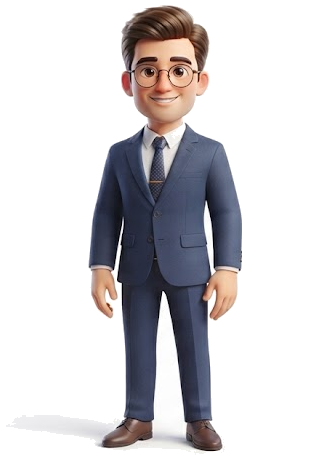
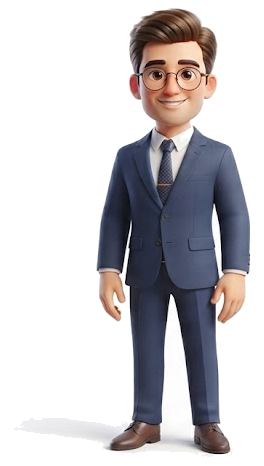
feat: full-body worker walking on road with dynamic sunny, rain, and snow weather cycles

diff --git a/apps/web/components/DedicatedWorkerIcon.tsx b/apps/web/components/DedicatedWorkerIcon.tsx
@@ -1,97 +1,207 @@
 'use client';
 
-import React from 'react';
+import React, { useState, useEffect } from 'react';
 import Image from 'next/image';
 
 interface DedicatedWorkerIconProps {
   size?: 'sm' | 'md' | 'lg' | 'xl';
-  variant?: 'avatar' | 'full';
   className?: string;
   showTooltip?: boolean;
 }
 
+type WeatherType = 'SUNNY' | 'RAINY' | 'SNOWY';
+
 export function DedicatedWorkerIcon({
   size = 'md',
-  variant = 'avatar',
   className = '',
   showTooltip = true,
 }: DedicatedWorkerIconProps) {
-  // Size mappings
-  const sizeClasses = {
-    sm: 'w-9 h-9 rounded-xl',
-    md: 'w-12 h-12 rounded-2xl',
-    lg: 'w-16 h-16 rounded-2xl',
-    xl: 'w-24 h-24 rounded-3xl',
+  const [weather, setWeather] = useState<WeatherType>('SUNNY');
+
+  // Automatically cycle weather every 5.5 seconds: SUNNY -> RAINY -> SNOWY -> SUNNY
+  useEffect(() => {
+    const cycle: WeatherType[] = ['SUNNY', 'RAINY', 'SNOWY'];
+    let idx = 0;
+    const interval = setInterval(() => {
+      idx = (idx + 1) % cycle.length;
+      setWeather(cycle[idx]);
+    }, 5500);
+    return () => clearInterval(interval);
+  }, []);
+
+  // Manual weather toggle on click
+  const handleToggleWeather = (e: React.MouseEvent) => {
+    e.stopPropagation();
+    setWeather((prev) => (prev === 'SUNNY' ? 'RAINY' : prev === 'RAINY' ? 'SNOWY' : 'SUNNY'));
   };
 
-  const imgSizes = {
-    sm: 34,
-    md: 46,
-    lg: 60,
-    xl: 92,
+  // Dimensions & scaling per size
+  // Providing vertical portrait room so full body from head to toe is fully visible!
+  const containerSizes = {
+    sm: 'w-12 h-16 rounded-xl',
+    md: 'w-16 h-22 rounded-2xl',
+    lg: 'w-24 h-32 rounded-3xl',
+    xl: 'w-32 h-44 rounded-3xl',
   };
 
-  const imgSrc = variant === 'full' ? '/worker-transparent.png' : '/worker-avatar.png';
+  const weatherLabels = {
+    SUNNY: { text: 'Quruq & Quyoshli', emoji: '☀', phrase: 'Quyoshli kunda ham o‘z ishida' },
+    RAINY: { text: 'Yomg‘irli ob-havo', emoji: '🌧', phrase: 'Yomg‘ir yog‘sa ham o‘z ishida' },
+    SNOWY: { text: 'Qorli qish kuni', emoji: '❄', phrase: 'Qor yog‘sa ham o‘z ishida' },
+  };
 
   return (
     <div
+      onClick={handleToggleWeather}
       className={`relative group/worker cursor-pointer select-none flex-shrink-0 ${className}`}
-      title="Har qanday ob-havoda o'z ishiga mas'ul xodim — 'Ishda bo'l' timsoli"
+      title={`Har qanday ob-havoda o'z ishiga mas'ul xodim — 'Ishda bo'l' timsoli (${weatherLabels[weather].text})`}
     >
-      {/* Icon Badge Container */}
+      {/* Outer Glow & Glass Border Card */}
       <div
-        className={`${sizeClasses[size]} relative overflow-hidden bg-gradient-to-b from-sky-400 via-sky-600 to-blue-800 border border-white/50 shadow-lg shadow-sky-600/35 transition-all duration-300 group-hover/worker:scale-105 group-hover/worker:shadow-sky-500/60 group-hover/worker:border-white/80 ring-1 ring-sky-300/40 flex items-end justify-center`}
+        className={`${containerSizes[size]} relative overflow-hidden border border-white/50 shadow-xl shadow-sky-950/20 transition-all duration-500 group-hover/worker:scale-105 group-hover/worker:shadow-sky-500/50 group-hover/worker:border-white/90 ring-1 ring-sky-300/40`}
       >
-        {/* Sky / Atmospheric background glow */}
-        <div className="absolute inset-0 bg-gradient-to-t from-blue-950/70 via-transparent to-sky-300/20 pointer-events-none" />
+        {/* ========================================================= */}
+        {/* 1. DYNAMIC SKY BACKGROUND (Quyoshli / Yomg'ir / Qor)     */}
+        {/* ========================================================= */}
+        <div
+          className={`absolute inset-0 transition-all duration-1000 ${
+            weather === 'SUNNY'
+              ? 'bg-gradient-to-b from-sky-400 via-sky-300 to-amber-100/90'
+              : weather === 'RAINY'
+              ? 'bg-gradient-to-b from-slate-800 via-sky-950 to-slate-800'
+              : 'bg-gradient-to-b from-slate-900 via-sky-900 to-indigo-950'
+          }`}
+        />
 
-        {/* --- WEATHER LAYER 1: RAIN STREAKS (Yomg'ir) --- */}
-        <div className="absolute inset-0 pointer-events-none overflow-hidden z-10">
-          <div className="absolute top-0 left-[18%] w-[1.5px] h-3.5 bg-gradient-to-b from-transparent via-cyan-100 to-sky-200 rounded-full animate-rain-1 opacity-75" />
-          <div className="absolute top-0 left-[48%] w-[1.5px] h-4 bg-gradient-to-b from-transparent via-cyan-100 to-sky-200 rounded-full animate-rain-2 opacity-80" />
-          <div className="absolute top-0 left-[75%] w-[1.5px] h-3 bg-gradient-to-b from-transparent via-cyan-100 to-sky-200 rounded-full animate-rain-3 opacity-70" />
-          <div className="absolute top-0 left-[88%] w-[1.5px] h-3.5 bg-gradient-to-b from-transparent via-cyan-100 to-sky-200 rounded-full animate-rain-4 opacity-75" />
-        </div>
+        {/* --- SUNNY WEATHER: Radiating Sun & Clear Sky --- */}
+        {weather === 'SUNNY' && (
+          <div className="absolute top-1.5 right-1.5 z-10 animate-in fade-in zoom-in duration-700 pointer-events-none">
+            <div className="relative w-6 h-6 flex items-center justify-center">
+              {/* Sun ambient glow */}
+              <div className="absolute w-8 h-8 rounded-full bg-amber-400/35 blur-sm animate-pulse" />
+              {/* Spinning Sun rays ring */}
+              <div className="absolute w-6 h-6 rounded-full border border-amber-300/60 border-dashed animate-spin-slow" />
+              {/* Golden Sun core */}
+              <div className="w-4 h-4 rounded-full bg-gradient-to-tr from-amber-500 via-yellow-300 to-amber-200 shadow-md shadow-amber-400/70" />
+            </div>
+          </div>
+        )}
 
-        {/* --- WEATHER LAYER 2: SNOW FLAKES (Qor) --- */}
-        <div className="absolute inset-0 pointer-events-none overflow-hidden z-10">
-          <span className="absolute top-0 left-[25%] w-1 h-1 bg-white/90 rounded-full blur-[0.4px] shadow-[0_0_2px_#fff] animate-snow-1" />
-          <span className="absolute top-0 left-[62%] w-1.5 h-1.5 bg-white/95 rounded-full blur-[0.4px] shadow-[0_0_3px_#fff] animate-snow-2" />
-          <span className="absolute top-0 left-[38%] w-1 h-1 bg-white/85 rounded-full blur-[0.4px] shadow-[0_0_2px_#fff] animate-snow-3" />
-          <span className="absolute top-0 left-[82%] w-1.5 h-1.5 bg-white/90 rounded-full blur-[0.4px] shadow-[0_0_3px_#fff] animate-snow-4" />
-        </div>
+        {/* --- RAINY WEATHER: Clouds & Falling Raindrops --- */}
+        {weather === 'RAINY' && (
+          <div className="absolute inset-0 pointer-events-none overflow-hidden z-15 animate-in fade-in duration-700">
+            {/* Top dark clouds glow */}
+            <div className="absolute -top-3 inset-x-0 h-6 bg-slate-900/60 blur-xs rounded-full pointer-events-none" />
+            {/* Rain streaks */}
+            <div className="absolute -top-2 left-[18%] w-[1.5px] h-3.5 bg-gradient-to-b from-transparent via-cyan-100 to-sky-200 rounded-full animate-rain-1 opacity-85" />
+            <div className="absolute -top-2 left-[44%] w-[1.5px] h-4 bg-gradient-to-b from-transparent via-cyan-100 to-sky-200 rounded-full animate-rain-2 opacity-90" />
+            <div className="absolute -top-2 left-[70%] w-[1.5px] h-3 bg-gradient-to-b from-transparent via-cyan-100 to-sky-200 rounded-full animate-rain-3 opacity-80" />
+            <div className="absolute -top-2 left-[86%] w-[1.5px] h-4 bg-gradient-to-b from-transparent via-cyan-100 to-sky-200 rounded-full animate-rain-4 opacity-85" />
+          </div>
+        )}
 
-        {/* --- WALKING WORKER CHARACTER (Ishga borayotgan xodim) --- */}
-        <div className="relative z-20 flex flex-col items-center justify-end pb-0.5 animate-worker-walk">
-          <Image
-            src={imgSrc}
-            alt="Ishga borayotgan xodim"
-            width={imgSizes[size]}
-            height={imgSizes[size]}
-            unoptimized
-            className="object-contain drop-shadow-[0_4px_6px_rgba(0,0,0,0.35)] transition-transform duration-300 group-hover/worker:scale-105"
-            priority
+        {/* --- SNOWY WEATHER: Drifting Snowflakes --- */}
+        {weather === 'SNOWY' && (
+          <div className="absolute inset-0 pointer-events-none overflow-hidden z-15 animate-in fade-in duration-700">
+            <span className="absolute top-0 left-[22%] w-1.5 h-1.5 bg-white/95 rounded-full blur-[0.3px] shadow-[0_0_2px_#fff] animate-snow-1" />
+            <span className="absolute top-0 left-[60%] w-1.5 h-1.5 bg-white/95 rounded-full blur-[0.3px] shadow-[0_0_3px_#fff] animate-snow-2" />
+            <span className="absolute top-0 left-[38%] w-1 h-1 bg-white/85 rounded-full blur-[0.3px] shadow-[0_0_2px_#fff] animate-snow-3" />
+            <span className="absolute top-0 left-[82%] w-1.5 h-1.5 bg-white/90 rounded-full blur-[0.3px] shadow-[0_0_3px_#fff] animate-snow-4" />
+          </div>
+        )}
+
+        {/* ========================================================= */}
+        {/* 2. PERSPECTIVE ROAD (Yo'lda ketayotgan bo'ladi)           */}
+        {/* ========================================================= */}
+        <div className="absolute inset-x-0 bottom-0 h-[42%] overflow-hidden z-10 pointer-events-none">
+          {/* Asphalt Base Surface */}
+          <div
+            className={`w-full h-full transition-colors duration-1000 ${
+              weather === 'SUNNY'
+                ? 'bg-gradient-to-t from-slate-800 via-slate-700 to-slate-600'
+                : weather === 'RAINY'
+                ? 'bg-gradient-to-t from-slate-950 via-slate-900 to-slate-800'
+                : 'bg-gradient-to-t from-slate-900 via-slate-800 to-sky-950'
+            }`}
           />
-          {/* Walking shadow */}
-          <div className="w-5 h-1 bg-blue-950/60 rounded-full blur-[1px] -mt-1 animate-step-shadow" />
+
+          {/* Perspective Road Markings SVG */}
+          <svg
+            className="absolute inset-0 w-full h-full"
+            preserveAspectRatio="none"
+            viewBox="0 0 100 100"
+          >
+            {/* Road borders / curbs */}
+            <polygon
+              points="28,0 72,0 96,100 4,100"
+              fill={weather === 'RAINY' ? '#0f172a' : '#1e293b'}
+              opacity="0.85"
+            />
+            {/* Left Curb Line */}
+            <line x1="28" y1="0" x2="4" y2="100" stroke="#94a3b8" strokeWidth="2.5" strokeOpacity="0.7" />
+            {/* Right Curb Line */}
+            <line x1="72" y1="0" x2="96" y2="100" stroke="#94a3b8" strokeWidth="2.5" strokeOpacity="0.7" />
+
+            {/* Road Center Dashed Line (Moving forward toward the viewer) */}
+            <line
+              x1="50"
+              y1="0"
+              x2="50"
+              y2="100"
+              stroke="#fbbf24"
+              strokeWidth="3.5"
+              strokeDasharray="14 10"
+              className="animate-road-move"
+            />
+          </svg>
+
+          {/* Road Weather Effects */}
+          {weather === 'SNOWY' && (
+            <div className="absolute inset-x-0 bottom-0 h-2 bg-gradient-to-t from-white/70 via-white/30 to-transparent pointer-events-none" />
+          )}
+          {weather === 'RAINY' && (
+            <div className="absolute inset-x-0 bottom-1 h-1.5 bg-gradient-to-r from-transparent via-cyan-200/35 to-transparent blur-[0.6px] pointer-events-none" />
+          )}
+        </div>
+
+        {/* ========================================================= */}
+        {/* 3. FULL-BODY WALKING WORKER (Boshdan oyoqqacha to'liq)   */}
+        {/* ========================================================= */}
+        <div className="relative z-20 h-full w-full flex flex-col items-center justify-end pb-1 pointer-events-none">
+          {/* Walking Bob Motion */}
+          <div className="relative h-[85%] w-auto flex flex-col items-center justify-end animate-worker-walk">
+            <Image
+              src="/worker-transparent.png"
+              alt="Ishga borayotgan xodim (Boshdan oyoqqacha)"
+              width={264}
+              height={466}
+              unoptimized
+              priority
+              className="h-full w-auto max-h-full object-contain drop-shadow-[0_4px_8px_rgba(0,0,0,0.5)] transition-transform duration-300 group-hover/worker:scale-105"
+            />
+            {/* Dynamic Step Shadow on the road */}
+            <div className="w-9 h-1.5 bg-slate-950/70 rounded-full blur-[1px] -mt-1 animate-step-shadow" />
+          </div>
         </div>
 
         {/* Glossy top glass reflection highlight */}
-        <div className="absolute top-0 inset-x-0 h-1/2 bg-gradient-to-b from-white/35 via-white/10 to-transparent pointer-events-none rounded-t-2xl z-30" />
+        <div className="absolute top-0 inset-x-0 h-1/2 bg-gradient-to-b from-white/30 via-white/10 to-transparent pointer-events-none rounded-t-2xl z-25" />
 
-        {/* Active Pulse Badge (Tizimda faol timsol) */}
-        <span className="absolute top-1 right-1 z-30 flex h-2 w-2">
-          <span className="animate-ping absolute inline-flex h-full w-full rounded-full bg-emerald-400 opacity-75"></span>
-          <span className="relative inline-flex rounded-full h-2 w-2 bg-emerald-400 ring-1 ring-white/80"></span>
-        </span>
+        {/* Current Weather Badge / Status Indicator (Top-Left) */}
+        <div className="absolute top-1 left-1 z-30 flex items-center gap-1 bg-slate-950/65 backdrop-blur-md px-1.5 py-0.5 rounded-full border border-white/20 text-[9px] shadow-sm">
+          <span>{weatherLabels[weather].emoji}</span>
+          <span className="w-1.5 h-1.5 rounded-full bg-emerald-400 animate-pulse"></span>
+        </div>
       </div>
 
       {/* Tooltip on Hover */}
       {showTooltip && (
         <div className="absolute left-full ml-3 top-1/2 -translate-y-1/2 hidden group-hover/worker:flex items-center z-50 pointer-events-none animate-in fade-in zoom-in-95 duration-200">
-          <div className="bg-slate-950/95 text-white text-[11px] font-semibold py-1.5 px-3 rounded-xl border border-sky-400/40 shadow-xl backdrop-blur-md whitespace-nowrap flex items-center gap-1.5">
-            <span className="text-sky-300">🌧❄</span>
-            <span>Har qanday ob-havoda o‘z ishida!</span>
+          <div className="bg-slate-950/95 text-white text-[11px] font-semibold py-1.5 px-3 rounded-xl border border-sky-400/40 shadow-xl backdrop-blur-md whitespace-nowrap flex items-center gap-2">
+            <span>{weatherLabels[weather].emoji}</span>
+            <span>
+              <strong>{weatherLabels[weather].text}:</strong> {weatherLabels[weather].phrase} (Ishda bo‘l)
+            </span>
           </div>
           <div className="w-2 h-2 bg-slate-950 border-l border-b border-sky-400/40 transform rotate-45 -ml-1"></div>
         </div>

diff --git a/apps/web/components/Sidebar.tsx b/apps/web/components/Sidebar.tsx
@@ -36,17 +36,20 @@ export function Sidebar() {
       {/* Header Logo */}
       <Link
         href="/"
-        className="p-3.5 border-b border-sky-500/20 flex items-center gap-3 group cursor-pointer hover:bg-white/5 transition-all text-decoration-none"
+        className="p-3 border-b border-sky-500/20 flex items-center gap-3 group cursor-pointer hover:bg-white/5 transition-all text-decoration-none"
       >
         <DedicatedWorkerIcon size="md" />
         <div className="overflow-hidden">
-          <h1 className="font-black text-sm tracking-tight leading-tight text-white group-hover:text-sky-300 transition-colors">
+          <h1 className="font-black text-xs sm:text-sm tracking-tight leading-tight text-white group-hover:text-sky-300 transition-colors">
             BANDIXON MONITORING
           </h1>
-          <div className="flex items-center gap-1.5 mt-0.5">
-            <span className="w-1.5 h-1.5 rounded-full bg-emerald-400 animate-pulse"></span>
-            <p className="text-[11px] text-sky-400 font-bold tracking-wide truncate">GPS Nazorat Tizimi</p>
+          <div className="flex items-center gap-1.5 mt-1">
+            <span className="w-1.5 h-1.5 rounded-full bg-emerald-400 animate-pulse shrink-0"></span>
+            <p className="text-[10px] text-sky-400 font-bold tracking-wide truncate">GPS Nazorat Tizimi</p>
           </div>
+          <span className="inline-block mt-0.5 text-[9px] text-sky-200/70 font-medium tracking-tight">
+            Har ob-havoda xizmatda
+          </span>
         </div>
       </Link>
 

diff --git a/apps/web/app/globals.css b/apps/web/app/globals.css
@@ -189,3 +189,18 @@
 .animate-snow-3 { animation: snow-flutter 2.4s ease-in-out infinite 1.2s; }
 .animate-snow-4 { animation: snow-flutter 3.0s ease-in-out infinite 1.7s; }
 
+/* Moving road dashed line animation (Yo'lda oldinga yurish hissi) */
+@keyframes road-move {
+  0% {
+    stroke-dashoffset: 0;
+  }
+  100% {
+    stroke-dashoffset: -28;
+  }
+}
+
+.animate-road-move {
+  animation: road-move 1.1s linear infinite;
+}
+
+
